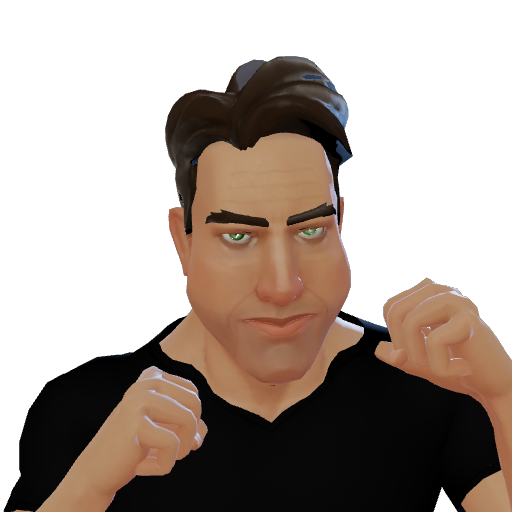
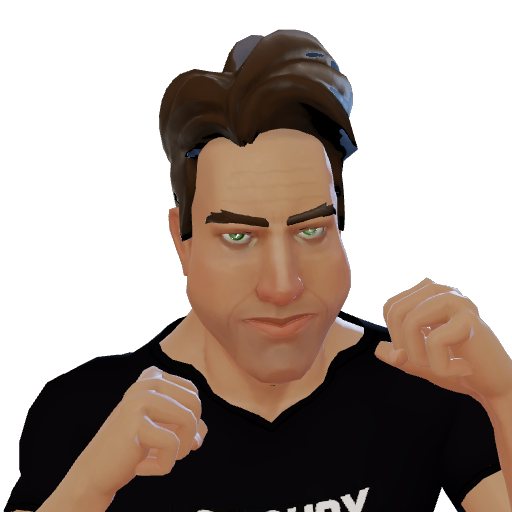
tesla man v2 (WIP, awaiting review): OCCUPY MARS print, fuller swept-back hair
Printed outfit slots (CharacterData.outfit_textures, tools/build_prints.py
maps an original design onto the chest through the body UVs).

Claude-Session: https://claude.ai/code/session_01D3ePLmdjmJ7S6FVw149ag7

Changed region(s): [[0.3125, 0.0312, 0.7188, 0.4688], [0.5625, 0.9375, 0.7188, 1.0], [0.6875, 0.625, 0.75, 0.6562]]

diff --git a/tools/build_prints.py b/tools/build_prints.py
@@ -1,0 +1,92 @@
+"""Printed T-shirts: draws a chest print into a fighter's outfit texture.
+
+The generated outfits keep the base body's UVs, so a print is placed on the chest in body
+coordinates (metres, x across, y up) and mapped into texture space with a polynomial fitted
+to the chest's own vertices (assets/characters/aged/face_uv.json, written by
+tools/build_aged_skins.gd). Output: assets/characters/prints/T_<id>_<name>.png, used by
+CharacterData.outfit_textures (the outfit slot's albedo; FighterModel). Designs are
+original parody artwork: no real logos.
+
+Run: python3 tools/build_prints.py   (needs Pillow and numpy)
+"""
+import json
+import os
+
+import numpy as np
+from PIL import Image, ImageDraw, ImageFont
+
+ROOT = os.path.dirname(os.path.dirname(os.path.abspath(__file__)))
+FONT = os.path.join(ROOT, "tools", "fonts", "InterDisplay-BlackItalic.otf")
+SIZE = 2048
+PX_PER_M = 2400  # design resolution
+
+
+def inverse_fit(chest):
+    """Cubic map (u, v) -> (x, y) over the chest front."""
+    c = np.array(chest)
+    uv, xy = c[:, 3:5], c[:, 0:2]
+    terms = lambda u, v: np.stack([np.ones_like(u), u, v, u * u, u * v, v * v, u ** 3, u * u * v, u * v * v, v ** 3], -1)
+    coef, *_ = np.linalg.lstsq(terms(uv[:, 0], uv[:, 1]), xy, rcond=None)
+    return lambda u, v: terms(u, v) @ coef
+
+
+def occupy_mars(width_m=0.27):
+    """"OCCUPY MARS" over a little rocket and a red planet (an original parody design)."""
+    W, H = int(width_m * PX_PER_M), int(width_m * 0.72 * PX_PER_M)
+    img = Image.new("RGBA", (W, H), (0, 0, 0, 0))
+    d = ImageDraw.Draw(img)
+    font = ImageFont.truetype(FONT, int(H * 0.22))
+    for text, y in (("OCCUPY", 0.02), ("MARS", 0.27)):
+        w = d.textlength(text, font=font)
+        d.text(((W - w) / 2, H * y), text, font=font, fill=(245, 245, 245, 255))
+    # Mars: an orange disc with darker bands, lower right; a rocket rising, lower left.
+    cx, cy, r = W * 0.88, H * 0.36, H * 0.11
+    d.ellipse([cx - r, cy - r, cx + r, cy + r], fill=(214, 92, 44, 255))
+    for k, dy in enumerate((-0.35, 0.1, 0.45)):
+        d.ellipse([cx - r * 0.8, cy + dy * r - r * 0.12, cx + r * (0.3 + 0.2 * k), cy + dy * r + r * 0.1], fill=(170, 64, 30, 255))
+    rx, ry, rh = W * 0.1, H * 0.34, H * 0.36
+    d.polygon([(rx, ry - rh * 0.5), (rx + rh * 0.12, ry - rh * 0.25), (rx + rh * 0.12, ry + rh * 0.3),
+               (rx - rh * 0.12, ry + rh * 0.3), (rx - rh * 0.12, ry - rh * 0.25)], fill=(235, 235, 235, 255))
+    d.polygon([(rx - rh * 0.12, ry + rh * 0.1), (rx - rh * 0.25, ry + rh * 0.35), (rx - rh * 0.12, ry + rh * 0.3)], fill=(235, 235, 235, 255))
+    d.polygon([(rx + rh * 0.12, ry + rh * 0.1), (rx + rh * 0.25, ry + rh * 0.35), (rx + rh * 0.12, ry + rh * 0.3)], fill=(235, 235, 235, 255))
+    d.ellipse([rx - rh * 0.05, ry - rh * 0.12, rx + rh * 0.05, ry - rh * 0.02], fill=(40, 40, 40, 255))
+    d.polygon([(rx - rh * 0.08, ry + rh * 0.3), (rx + rh * 0.08, ry + rh * 0.3), (rx, ry + rh * 0.55)], fill=(255, 160, 40, 255))
+    return img, width_m, width_m * 0.72
+
+
+# id -> (output name, base colour (0..1), design, centre (x, y) on the chest, metres)
+PRINTS = {
+    "tesla": ("tee", (0.05, 0.05, 0.06), occupy_mars, (0.0, 1.355)),
+}
+
+
+def build(fid, name, colour, design, centre, to_xy):
+    base = np.ones((SIZE, SIZE, 3), np.float32) * np.array(colour) * 255
+    art, w_m, h_m = design()
+    art = np.asarray(art, np.float32) / 255.0
+    # Every texture pixel of the chest area, mapped back onto the chest and the design.
+    full_u, full_v = np.meshgrid(np.arange(int(0.02 * SIZE), int(0.25 * SIZE)), np.arange(int(0.46 * SIZE), int(0.66 * SIZE)))
+    fxy = to_xy((full_u.ravel() + 0.5) / SIZE, (full_v.ravel() + 0.5) / SIZE)
+    ax = ((fxy[:, 0] - (centre[0] - w_m / 2)) / w_m * art.shape[1]).astype(int)
+    ay = (((centre[1] + h_m / 2) - fxy[:, 1]) / h_m * art.shape[0]).astype(int)
+    ok = (ax >= 0) & (ax < art.shape[1]) & (ay >= 0) & (ay < art.shape[0])
+    src = art[ay[ok], ax[ok]]
+    a = src[:, 3:4]
+    tx, ty = full_u.ravel()[ok], full_v.ravel()[ok]
+    base[ty, tx] = base[ty, tx] * (1 - a) + src[:, :3] * 255 * a
+    out = Image.fromarray(np.clip(base, 0, 255).astype(np.uint8))
+    path = os.path.join(ROOT, "assets", "characters", "prints", f"T_{fid}_{name}.png")
+    out.save(path, optimize=True)
+    print(f"{fid}: {os.path.relpath(path, ROOT)}")
+    return path
+
+
+def main():
+    data = json.load(open(os.path.join(ROOT, "assets", "characters", "aged", "face_uv.json")))
+    to_xy = inverse_fit(data["chest"])
+    for fid, (name, colour, design, centre) in PRINTS.items():
+        build(fid, name, colour, design, centre, to_xy)
+
+
+if __name__ == "__main__":
+    main()
